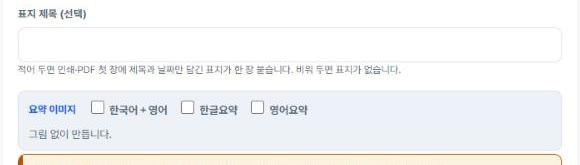
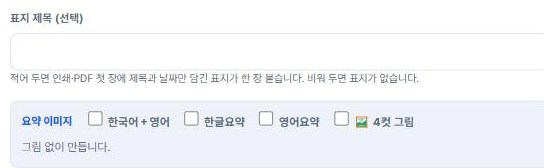
만드는 법·예시 자료를 최근 기능에 맞춰 고친다(사용자 — 업데이트가 안 된 곳 검토). 상세·요약분석에 요약 이미지 고르기 규칙(한글·영어요약만 함께, 한국어＋영어·4컷은 혼자)과 꾸미기의 인쇄 크기를, 혼합 탭에 출제 문항 수를, 객관식에 정답 검산과 '확인 필요' 표시를, 학생 관리에 여러 명에게 내기·단어 학습 필수·보충 학습 필수·오답테스트를, 단어장에 PDF 여러 개 파일별 저장·폴더 옮기기/이름 바꾸기를, 리딩노트에 2쪽 자동 맞춤·4컷 1세트·새로 만들기를 적었다. 4컷 칸이 빠져 있던 단계 사진(howto-step-

diff --git a/public/app.js b/public/app.js
@@ -3966,9 +3966,10 @@ syncTabGroups(null);
 const START_TOUR = [
   { tab: "analyze", title: "📖 지문 상세분석", text: "끊어읽기·어법/어휘 색 구분·문장별 해설과 출제 포인트", img: "howto-analyze-1.jpg" },
   { tab: "brief", title: "📑 지문 요약분석", text: "같은 색 구분에 한 줄 의역 — 학생이 들고 다니는 얇은 정리", img: "howto-brief-1.png" },
-  { tab: "mcq", title: "📝 객관식 문제", text: "수능형 23 · 중학교 내신 13유형, 정답·해설 포함", img: "howto-mcq-1.jpg" },
+  { tab: "mcq", title: "📝 객관식 문제", text: "수능형 25 · 중학교 내신 13유형, 정답·해설 포함", img: "howto-mcq-1.jpg" },
   { tab: "saq", title: "✍ 주관식 문제", text: "서술형 배열·조건 영작 등 18유형", img: "howto-saq-1.jpg" },
   { tab: "workbook", title: "📚 워크북", text: "좌지문 우해석부터 영작까지 14단계 학습지", img: "howto-workbook-1.jpg" },
+  { tab: "decode", title: "📘 리딩노트", text: "지문 하나로 A4 두 쪽 — 해석·핵심 정리·어휘·끊어 읽기", img: "howto-decode-1.jpg" },
   { tab: "exam", title: "🧾 동형 모의고사", text: "기출 시험지의 유형 구성 그대로, 내 시험 범위로", img: "howto-exam-1.jpg" },
   { tab: "trend", title: "📊 시험지 분석 리포트", text: "기출 PDF를 올리면 출제경향 보고서와 총평까지", img: "howto-trend-1.jpg" },
 ];
@@ -14147,10 +14148,10 @@ const HOWTO = {
     lead: "지문을 의미 단위로 끊어 색·뜻을 달고, 문장마다 해설과 출제 포인트를 붙인 가장 두꺼운 자료입니다.",
     steps: [
       "<b>지문 칸</b>에 영어 지문을 붙여 넣습니다. 여러 개면 <b>[＋ 지문 추가]</b>.",
-      "(선택) <b>표지 제목</b>·<b>요약 이미지</b>를 고릅니다. 요약 이미지는 <b>추가 요청</b> 칸에 원하는 강조·색을 적을 수 있고, 비우면 기본 방식으로 만듭니다. <b>🖼 4컷 그림</b>(일러스트·웹툰)을 고르면 지문 흐름을 네 장면으로 그린 그림이 컷마다 설명 한 줄과 함께 들어갑니다. 목표 어법을 적으면 그 구조가 주황색으로 표시됩니다.",
+      "(선택) <b>표지 제목</b>·<b>요약 이미지</b>를 고릅니다. 요약 이미지는 <b>추가 요청</b> 칸에 원하는 강조·색을 적을 수 있고, 비우면 기본 방식으로 만듭니다. <b>🖼 4컷 그림</b>(일러스트·웹툰)을 고르면 지문 흐름을 네 장면으로 그린 그림이 컷마다 설명 한 줄과 함께 들어갑니다. 함께 고를 수 있는 것은 한글요약·영어요약뿐이고, 한국어＋영어와 4컷 그림은 하나만 고릅니다. 목표 어법을 적으면 그 구조가 주황색으로 표시됩니다.",
       "<b>[분석하기]</b>를 누릅니다. 요약 이미지가 안 만들어졌거나 나중에 필요하면 분석은 그대로 두고 <b>[🖼 요약 이미지만 만들기]</b>로 없는 그림만 따로 만듭니다.",
       "<b>[✏ 직접 수정]</b>으로 글자를, <b>[📄 쪽 구성]</b>으로 인쇄될 쪽 경계를 고칩니다.",
-      "<b>[🖨 인쇄 / PDF 변환]</b> · <b>[💾 사이트 저장]</b>으로 마무리합니다. 사이트에 저장하면 핵심 어휘도 <b>'제목_단어'</b> 단어장으로 함께 저장됩니다. <b>🎨 분석본 꾸미기</b>로 테마 색·글씨체를 바꿀 수 있습니다(요금 없음).",
+      "<b>[🖨 인쇄 / PDF 변환]</b> · <b>[💾 사이트 저장]</b>으로 마무리합니다. 사이트에 저장하면 핵심 어휘도 <b>'제목_단어'</b> 단어장으로 함께 저장됩니다. <b>🎨 분석본 꾸미기</b>로 테마 색·글씨체를 바꾸고, <b>인쇄 크기</b>(조금 작게·작게)를 줄여 인쇄 쪽 수를 아낄 수 있습니다(요금 없음).",
     ],
     tip: "요약 이미지는 사이트에 저장해야 다음에 불러올 때 남습니다. 학생용 모의고사 문제지를 <b>[📄 PDF에서 가져오기]</b>로 올리면 빈칸·순서·문장 삽입 문항을 AI가 풀어 채울지 묻습니다(채우면 지문당 포인트). 그 창에 정답표를 붙여 넣거나 올리면 정답표의 답대로 채웁니다. 순서·삽입·무관한 문장·빈칸 <b>문제를 캡처해 넣으면</b> 답을 정하는 창이 떠, 답을 고르거나 정답표를 넣거나 AI에게 풀게 하면(문제당 포인트) 원래 지문으로 바꿔 넣습니다. 문제 모양 그대로 쓰려면 <b>[📷 캡처본 그대로 두기]</b>를 누르세요." + HOWTO_PAUSE_TIP,
     shots: {
@@ -14165,9 +14166,9 @@ const HOWTO = {
     lead: "상세분석과 같은 색·뜻에 해석을 한 줄 의역으로 담은, 학생이 들고 다니기 좋은 얇은 자료입니다.",
     steps: [
       "<b>지문 칸</b>에 영어 지문을 붙여 넣습니다.",
-      "(선택) <b>표지 제목</b>·<b>요약 이미지</b>를 고릅니다. 요약 이미지는 <b>추가 요청</b> 칸에 원하는 강조·색을 적을 수 있고, 비우면 기본 방식으로 만듭니다. <b>🖼 4컷 그림</b>(일러스트·웹툰)을 고르면 지문 흐름을 네 장면으로 그린 그림이 컷마다 설명 한 줄과 함께 들어갑니다.",
+      "(선택) <b>표지 제목</b>·<b>요약 이미지</b>를 고릅니다. 요약 이미지는 <b>추가 요청</b> 칸에 원하는 강조·색을 적을 수 있고, 비우면 기본 방식으로 만듭니다. <b>🖼 4컷 그림</b>(일러스트·웹툰)을 고르면 지문 흐름을 네 장면으로 그린 그림이 컷마다 설명 한 줄과 함께 들어갑니다. 함께 고를 수 있는 것은 한글요약·영어요약뿐이고, 한국어＋영어와 4컷 그림은 하나만 고릅니다.",
       "<b>[요약분석 만들기]</b>를 누릅니다.",
-      "<b>[📄 쪽 구성]</b>으로 쪽 경계를 보고, <b>[🖨 인쇄 / PDF 변환]</b> · <b>[💾 사이트 저장]</b>으로 마무리합니다. <b>🎨 분석본 꾸미기</b>로 테마 색·글씨체를 바꿀 수 있습니다(요금 없음 — 짧은 문장 묶기까지 맞추려면 글꼴을 먼저 고르고 만드세요).",
+      "<b>[📄 쪽 구성]</b>으로 쪽 경계를 보고, <b>[🖨 인쇄 / PDF 변환]</b> · <b>[💾 사이트 저장]</b>으로 마무리합니다. <b>🎨 분석본 꾸미기</b>로 테마 색·글씨체와 <b>인쇄 크기</b>(조금 작게·작게)를 바꿀 수 있습니다(요금 없음 — 짧은 문장 묶기까지 맞추려면 글꼴을 먼저 고르고 만드세요).",
     ],
     tip: "상세분석과 달리 오른쪽 해설 칸과 핵심 어휘표가 없습니다." + HOWTO_PAUSE_TIP,
     shots: {
@@ -14189,7 +14190,7 @@ const HOWTO = {
       "<b>[문제 만들기]</b>를 누릅니다.",
       "<b>[🖨 인쇄 / PDF 변환]</b> · <b>[🔑 답지만]</b> · <b>[💾 사이트 저장]</b>으로 마무리합니다. <b>[🔀 문제 섞기]</b>는 요금 없이 순서만 바꿉니다. <b>🎨 시험지 꾸미기</b>로 색·글자 크기·글꼴을 바꿀 수 있습니다(요금 없음).",
     ],
-    tip: "고난도는 정답을 다른 말로 바꾸고 오답에 지문 낱말을 넣은 함정을 섞어, 외운 것만으로는 못 풉니다. 승인된 선생님은 <b>[🏫 반에 시험 내기]</b>로 학생에게 온라인 시험을 낼 수 있습니다." + HOWTO_PAUSE_TIP,
+    tip: "고난도는 정답을 다른 말로 바꾸고 오답에 지문 낱말을 넣은 함정을 섞어, 외운 것만으로는 못 풉니다. 만든 문항은 AI가 정답을 가린 채 한 번 더 풀어 검산하고, 답이 갈리면 고치거나 <b>⚠ 확인 필요</b>를 붙입니다 — 이 표시가 있는 문항은 꼭 한 번 보세요. 승인된 선생님은 <b>[🏫 반에 시험 내기]</b>로 학생에게 온라인 시험을 낼 수 있습니다." + HOWTO_PAUSE_TIP,
     sampleHead: "객관식은 이렇게 나옵니다 — 한 지문으로 25가지 유형을 한 문항씩 만든 시험지 중 세 쪽입니다",
     // 2026-10-18 실서비스 화면(주제·빈칸·어법·내용일치 1문항씩)
     shots: {
@@ -14226,7 +14227,7 @@ const HOWTO = {
     lead: "객관식과 주관식 유형을 한 시험지에 섞어 만듭니다.",
     steps: [
       "<b>지문 칸</b>에 영어 지문을 붙여 넣습니다.",
-      "<b>객관식</b>과 <b>주관식</b> 칸에서 유형을 체크하고 문항 수를 정합니다.",
+      "<b>출제 문항 수</b>(객관식·주관식 따로)를 넣으면 학교급에 맞는 유형이 무작위로 채워집니다. <b>객관식</b>과 <b>주관식</b> 칸에서 유형을 직접 더하거나 빼도 됩니다.",
       "<b>학교급 · 난이도 · 출제 순서 · 지문 변형</b>을 고릅니다. 유형 순서대로면 객관식 → 주관식 순입니다.",
       "<b>[문제 만들기]</b>를 누르고, <b>[🖨 인쇄 / PDF 변환]</b> · <b>[💾 사이트 저장]</b>으로 마무리합니다. <b>🎨 시험지 꾸미기</b>로 색·글자 크기·글꼴을 바꿀 수 있습니다(요금 없음).",
     ],
@@ -14265,7 +14266,7 @@ const HOWTO = {
       "<b>형식</b>을 고릅니다 — 단어장, 또는 시험지(뜻 쓰기 · 영어 쓰기 · 섞어서).",
       "<b>[단어장 만들기]</b>를 누르고 <b>[🖨 인쇄 / PDF 변환]</b>으로 뽑습니다. <b>🎨 시험지 꾸미기</b>로 색·단어/뜻 글자 크기·글꼴을 바꿀 수 있습니다(요금 없음).",
     ],
-    tip: "[🤖 지문에서 뽑기]는 지문 분석의 핵심 어휘와 같은 방식으로, AI가 그 지문에서 꼭 알아야 할 단어·표현을 고릅니다. 2022 개정 교육과정 단어 목록(중학교·공통 / 고등 선택)에 있는 단어를 위주로 하고, 초등 단어는 넣지 않으며 목록에 없는 전문 용어·숙어는 일부만 넣습니다. 뜻은 AI가 쓰므로 편집 표에서 확인하세요. 사진·PDF로 읽은 단어는 편집 표에서 확인한 뒤 [이 단어장에 추가]를 눌러야 들어갑니다. 승인된 선생님은 <b>[🏫 반에 시험 내기]</b>로 온라인 단어시험을 낼 수 있습니다(요금 없음). 저장한 단어장을 여러 개 체크하면 한 시험으로 합치거나 단어장마다 따로 낼 수 있습니다. [💾 사이트 저장]을 누르면 저장본을 넣을 <b>단어장</b>(저장한 단어장 묶음)을 목록에서 고르거나 새로 만들 수 있습니다. 단어장 책 PDF를 단원별로 나눠 읽었으면 '📚 쓸 단어장 고르기'의 <b>[💾 고른 단원 따로 저장]</b>으로 단원마다 저장해 두세요 — 다음엔 PDF를 다시 올리지 않아도 됩니다.",
+    tip: "[🤖 지문에서 뽑기]는 지문 분석의 핵심 어휘와 같은 방식으로, AI가 그 지문에서 꼭 알아야 할 단어·표현을 고릅니다. 2022 개정 교육과정 단어 목록(중학교·공통 / 고등 선택)에 있는 단어를 위주로 하고, 초등 단어는 넣지 않으며 목록에 없는 전문 용어·숙어는 일부만 넣습니다. 뜻은 AI가 쓰므로 편집 표에서 확인하세요. 사진·PDF로 읽은 단어는 편집 표에서 확인한 뒤 [이 단어장에 추가]를 눌러야 들어갑니다(PDF를 여러 개 올리면 파일마다 단어장이 따로 저장됩니다). 저장함의 단어장 줄 <b>[📁 폴더]</b>로 다른 단어장(폴더)으로 옮기고, 폴더 머리의 <b>[✏ 폴더 이름]</b>으로 이름을 바꿉니다. 승인된 선생님은 <b>[🏫 반에 시험 내기]</b>로 온라인 단어시험을 낼 수 있습니다(요금 없음). 저장한 단어장을 여러 개 체크하면 한 시험으로 합치거나 단어장마다 따로 낼 수 있습니다. [💾 사이트 저장]을 누르면 저장본을 넣을 <b>단어장</b>(저장한 단어장 묶음)을 목록에서 고르거나 새로 만들 수 있습니다. 단어장 책 PDF를 단원별로 나눠 읽었으면 '📚 쓸 단어장 고르기'의 <b>[💾 고른 단원 따로 저장]</b>으로 단원마다 저장해 두세요 — 다음엔 PDF를 다시 올리지 않아도 됩니다.",
     shots: {
       0: [{ img: "howto-step-vocab-1.jpg", cap: "직접 입력 · 사진 · PDF로 단어 넣기" }],
       1: [{ img: "howto-step-vocab-2.jpg", cap: "형식 고르기" }],
@@ -14296,11 +14297,11 @@ const HOWTO = {
     steps: [
       "<b>[+ 새 반 만들기]</b>로 반을 만듭니다.",
       "학생의 <b>이름과 아이디</b>를 정해 등록합니다. 비밀번호는 <b>1234</b>로 시작합니다.",
-      "단어장·문제·문법 문제·워크북 탭에서 만든 뒤 <b>[🏫 반에 시험 내기]</b>를 누릅니다. 저장해 둔 자료는 이 탭의 <b>[＋ 시험 출제]</b>에서 골라 바로 낼 수 있습니다. 반 전체에도, 한 명에게도 낼 수 있습니다.",
+      "단어장·문제·문법 문제·워크북 탭에서 만든 뒤 <b>[🏫 반에 시험 내기]</b>를 누릅니다. 저장해 둔 자료는 이 탭의 <b>[＋ 시험 출제]</b>에서 골라 바로 낼 수 있습니다. <b>낼 대상</b>은 반 전체, 또는 학생을 여러 명 체크해 고릅니다.",
       "<b>🔗 학생에게 알려 줄 주소</b> 칸의 주소를 <b>[복사]</b>해 학생에게 보냅니다. 학생은 아이디·비밀번호로 로그인해 풉니다.",
       "결과는 시험의 <b>[결과 보기]</b>, 학생 한 명은 <b>[성적표]</b>에서 봅니다.",
     ],
-    tip: "학생 표의 비밀번호 칸에 <b>⚠ 1234 그대로</b>가 보이는 학생에게는 처음 로그인하면 비밀번호를 바꾸라고 알려 주세요 — 안 바꾸면 아이디만 아는 친구도 들어올 수 있습니다. 합격 기준을 두면 못 미친 학생은 재시험을 봅니다. 비밀번호를 잊은 학생은 <b>[🔑 비번 초기화]</b>. 시험 삼아 넣을 때는 실제 학생 이름을 쓰지 마세요.",
+    tip: "학생 표의 비밀번호 칸에 <b>⚠ 1234 그대로</b>가 보이는 학생에게는 처음 로그인하면 비밀번호를 바꾸라고 알려 주세요 — 안 바꾸면 아이디만 아는 친구도 들어올 수 있습니다. 합격 기준을 두면 못 미친 학생은 재시험을 봅니다. 단어시험은 학생이 단어 학습(뜻을 모두 눌러 보기)을 마쳐야 열립니다. 문제 시험에서 <b>틀린 문제 보충 학습 필수로 하기</b>를 켜면 학생은 틀린 문제를 다시 읽고 새 문제를 풀어야 끝납니다(새 문제 값은 선생님 포인트에서 나갑니다). 학생 <b>[성적표]</b>의 <b>[지난 주]·[이번 주]</b>에서 틀린 단어로 바로 오답테스트를 내고, 아래 <b>[🎯 학생마다 오답테스트 내기]</b>로 반 전체에 한 번에 낼 수 있습니다. 비밀번호를 잊은 학생은 <b>[🔑 비번 초기화]</b>. 시험 삼아 넣을 때는 실제 학생 이름을 쓰지 마세요.",
   },
 
   leveltest: {

diff --git a/public/analyze.html b/public/analyze.html
@@ -137,11 +137,17 @@
       다음 대목이 답하는 질문이 붙습니다), 되풀이되는 핵심 낱말 모음이 나옵니다.</li>
     <li><b>핵심 어휘 &amp; 표현표</b> 단어·품사·뜻·유의어·반의어를 표로 뽑습니다. 이 표는 그대로 단어장으로도 넘어갑니다.</li>
     <li><b>배경지식 &amp; 독해 도우미</b> 지문에 나오는 분야·개념 2~4개를 지문 밖 지식으로 풀어 주는 배경지식 칸, 글의 핵심 구조를 일상 장면에 빗댄 <b>쉽게 말하면</b>, 읽으면서 붙잡을 질문 2~3개와 답이 나옵니다. 낱말은 읽는데 글이 안 읽히는 학생에게 좋습니다. 배경지식이 필요 없는 지문(이야기·편지 등)은 이 칸이 비어 나오고, AI가 확실하지 않은 수치·인명은 쓰지 않도록 되어 있지만 개념 설명은 한 번 훑어보고 쓰세요.</li>
-    <li><b>요약 이미지</b> 지문 내용을 그림 한 장으로 요약합니다. 한국어＋영어·한글요약·영어요약 중에서 고르고, 여럿을 골라 한 번에 만들 수도 있습니다.</li>
+    <li><b>요약 이미지</b> 지문 내용을 그림 한 장으로 요약합니다. 핵심 문구를 담은 인포그래픽(한국어＋영어·한글요약·영어요약)과,
+      지문 흐름을 네 장면으로 그린 <b>4컷 그림</b>(웹툰·일러스트) 중에서 고릅니다. 4컷 그림은 그림 속에 글자가 없고 컷마다 설명 한 줄이 붙어
+      오탈자 걱정이 없습니다. 한글요약과 영어요약은 둘 다 골라 한 번에 만들 수 있습니다.</li>
   </ul>
   <figure>
     <img src="/sample-analyze-1.jpg" alt="영어 지문 분석 요약 이미지 예시 — 한글요약" loading="lazy" width="1376" height="768">
     <figcaption class="muted small">실제로 만들어진 요약 이미지입니다. 그림은 지문 내용에 맞춰 매번 새로 그려집니다.</figcaption>
+  </figure>
+  <figure>
+    <img src="/howto-analyze-6.jpg" alt="영어 지문 분석 요약 이미지 예시 — 웹툰 4컷" loading="lazy" width="900" height="373">
+    <figcaption class="muted small">같은 지문으로 그린 4컷 그림(웹툰)입니다. 컷 아래 설명은 직접 고칠 수 있습니다.</figcaption>
   </figure>
 </section>
 

diff --git a/public/decode.js b/public/decode.js
@@ -572,7 +572,7 @@ if (typeof HOWTO !== "undefined") {
         "그림은 지문마다 위의 <b>🖼 4컷 그림 넣기 / 🔄 그림 다시 그리기 / 그림 빼기</b>로 더하거나 바꿉니다.",
       "<b>🖨 인쇄 / PDF 변환</b>으로 뽑거나, <b>💾 사이트 저장</b>으로 남겨 둡니다.",
     ],
-    tip: "1쪽: 본문과 해석 · 핵심 정리(제목·주제·글의 목적·흐름 세 줄) · 주요 어휘(외웠는지 표시하는 네모) / 2쪽: 문장마다 '/'로 끊은 영어 줄 아래 우리말 줄. 🎨 꾸미기로 색·글자 크기·글꼴을 바꿀 수 있습니다.",
+    tip: "1쪽: 본문과 해석 · 핵심 정리(제목·주제·글의 목적·흐름 세 줄) · 주요 어휘(외웠는지 표시하는 네모) / 2쪽: 문장마다 '/'로 끊은 영어 줄 아래 우리말 줄(4컷 그림은 2쪽 아래). 지문이 길어 넘치면 글씨를 조금 줄이거나 어휘·그림 자리를 옮겨 <b>알아서 두 쪽에 맞춥니다</b>. 4컷 그림 값은 지문마다 1세트입니다. 🎨 꾸미기로 색·글자 크기·글꼴을 바꿀 수 있습니다(요금 없음). 다른 지문으로 넘어갈 때는 지문 칸의 <b>[🆕 새로 만들기]</b>를 누르세요.",
   };
 }
 

diff --git a/public/brief.html b/public/brief.html
@@ -77,7 +77,7 @@
     <li><b>도입 · 전개 · 결론 표시</b>각 문장이 글에서 어떤 역할인지, 주제문이 어디인지 표시합니다.</li>
     <li><b>주제 &amp; 흐름 요약</b>한 줄 요약, 단계별 흐름표, 주제를 가리키는 되풀이 낱말을 정리합니다. 주제·제목·순서·요약문 문제를 대비하기 좋습니다.</li>
     <li><b>배경지식 · 쉽게 말하면</b>주제 &amp; 흐름 요약 뒤에 지문과 관련된 개념 한두 개와, 글의 구조를 일상 장면에 빗댄 한 줄이 붙습니다. 필요 없는 지문(이야기·편지 등)에서는 빠집니다.</li>
-    <li><b>(선택) 요약 이미지</b>지문 내용을 그림 한 장으로 정리한 요약 이미지를 맨 뒤에 붙일 수 있습니다.</li>
+    <li><b>(선택) 요약 이미지</b>지문 내용을 그림 한 장으로 정리한 인포그래픽, 또는 지문 흐름을 네 장면으로 그린 4컷 그림(웹툰·일러스트)을 맨 뒤에 붙일 수 있습니다.</li>
   </ul>
 </section>
 

diff --git a/public/index.html b/public/index.html
@@ -171,7 +171,7 @@
         </a>
         <a class="gate-tour-card" href="/quiz.html">
           <span class="gate-tour-shot"><img src="/howto-mcq-1.jpg?v=%%ASSET_V%%" alt="수능형 객관식 변형문제 예시" loading="lazy"></span>
-          <b>📝 객관식 변형문제</b><small>수능형 23 · 중학교 내신 13유형, 정답·해설 포함</small>
+          <b>📝 객관식 변형문제</b><small>수능형 25 · 중학교 내신 13유형, 정답·해설 포함</small>
         </a>
         <a class="gate-tour-card" href="/quiz.html">
           <span class="gate-tour-shot"><img src="/howto-saq-1.jpg?v=%%ASSET_V%%" alt="서술형 조건 영작 문제 예시" loading="lazy"></span>

diff --git a/CLAUDE.md b/CLAUDE.md
@@ -196,7 +196,7 @@ order=순서 배열·자동 / wbwrite=영작 연습·다르면 확인 대기 / p
 | PDF에서 지문 꺼내기 | `read_pdf_pages`(글자층+좌표 읽기), `_pdf_columns`(단 나누기 — 왼쪽 조각에 경계 안쪽에서 끝나는 줄이 3개 이상 있어야 단으로 본다. 모의고사 오른쪽 단의 문항 머리글이 본문보다 왼쪽으로 튀어나와 머리글만 한 단으로 갈리던 버그로 2026-10 고1·2·3 학력평가에서 번호가 하나씩 밀리고 지문이 빠졌다 — 23번 본문에 24번이 붙고 진짜 24번이 사라지거나 도표+인물 소개가 한 지문으로 붙었다, 2026-10-23), `split_pdf_passages`(문항형/문단형 판정), `_pdf_clean_passage`(번호·보기·정답교정 정리), `_pdf_unspace_letters`(양쪽 정렬로 글자마다 빈칸이 든 줄 'p r o c e s s .  B a s e d'을 되붙인다 — 낱말 사이가 빈칸 둘 이상일 때만), `_pdf_drop_running_heads`(쪽마다 같은 머리말을 지운다 — 책처럼 홀짝 쪽 머리말이 다르면 홀수·짝수 쪽을 따로 세되 한글이나 숫자뿐인 줄만, 2026-10-21). 여기까지는 Gemini를 부르지 않습니다 — 규칙이 실패했을 때만 `call_gemini_pdf_split`이 '경계 줄 번호'만 물어봅니다 |
 | 모의고사 문제지 → 원래 지문(2026-10-20) | 학생용 문제지는 빈칸·순서·삽입이 풀리지 않은 채라 위 규칙 길로는 그 지문이 빠진다(고1 10월 모의고사 28지문 중 13개만 나왔다). `/api/mockrestore` → `call_gemini_mock_restore`가 PDF를 **통째로**(inlineData) Pro에 보내 `MOCK_RESTORE_RANGES`(18~24·25~30·31~35·36~40·41~45)로 나눠 **동시에** 풀게 하고, 되살린 지문(`MOCK_RESTORE_SCHEMA` — no·type·text·answer·change)을 번호 순으로 돌려준다. 정답표 없이 AI가 푼다(사용자 결정) — 화면이 고른 답을 모두 보여 선생님이 맞춰 보게 한다. 글자를 서버가 뽑아 정답만 끼우는 길은 2단 시험지의 줄 순서가 섞여(29번 첫 줄이 30번 발문 사이에 낀다) 버렸다. 옮겨 적기가 대부분이라 temperature 0.15(RECITATION — `call_gemini_exam_ocr`과 같다). 값은 되살린 지문 1개당 `PRICE_MOCK_RESTORE_KRW`(30P — 2026-10-20 사용자 결정: 처음 꺼내기는 무료이고 이것은 다른 유료 기능으로 이어지는 입구라 원가(지문당 약 18원)만 넘기면 된다), 잔액은 쪽 수×4(4~28지문)로 미리 본다. 실측: 8쪽 문제지 25지문 50초, 입력 5.2천×5·출력+생각 약 2.1만 토큰(원가 약 430원). 화면은 따로 단추 없이 **[📄 PDF에서 가져오기](`runPdfImport`)가 묻는다** — 29번을 넘는 번호가 보이면 풀어야 할 문항(`MOCK_SOLVE_NOS` 29~39·41~45 + 규칙이 못 꺼낸 번호)을 모아 선택 창(`askMockFill` — [🧩 AI로 자동 채우기](지문당 값) / [원문 그대로 두기](무료))을 띄우고(2026-10-20 사용자 — 무료로 열면 원가가 커서), AI면 `mockRestoreInto`가 그 번호만 `nos`로 보내 문항 번호를 이름으로 달아 `appendJobs`한다. **모의고사면 규칙으로 바로 꺼낸 지문도 번호를 이름으로 달고, AI로 되살린 지문과 합쳐 `mockJobsInOrder`로 문항 번호 순서대로 넣는다**(2026-10-23 사용자 — 규칙 쪽만 이름이 비어 '지문 1'로 나오고 순서도 18~22 → 40 → 23…로 섞였다). [원문 그대로 두기]도 같은 순서·이름이고, 빼 둔 지문(25~28)은 넣을 때 이름만 달고 맨 뒤에 붙는다. 교과서 PDF는 여전히 이름을 비운다(`fillText`). 서버는 `parse_mock_nos`·`_mock_nos_of`로 그 번호 밖의 지문을 버려, 규칙으로 무료로 꺼낸 지문에 값을 또 받지 않는다. **정답표(선택, 2026-10-21 사용자 — AI가 푼 답은 틀릴 수 있다)**: 선택 창에 정답을 글로 붙여 넣거나(`keyText`) PDF·사진(`keyFile`, base64 4MB `MOCK_KEY_FILE_MAX` — 화면에도 같은 이름)을 올리면 AI가 풀지 않고 그 답대로 되살린다. 글은 `parse_mock_answer_key`가 번호 → ①~⑤로 읽어(짝 꼴 '31 ②'·'31. 2', 가로 표 두 줄, 평가원 '번호 정답 배점' 표 — 줄을 넘어 짝짓지 않는다) 범위마다 그 번호만 보내고, 못 읽은 글은 그대로, 파일은 두 번째 파일로 보낸다. 번호를 읽은 정답표면 AI의 답에 그 번호(①~⑤)가 들어 있는지 견줘 `keyMismatch`로, 정답표에 없어 AI가 푼 지문은 `keyed:false`로 돌려 화면이 빨간 줄로 짚는다. 값은 같다. 실측(2025 9월 고3 모평): 정답표 PDF로 31·32·36·38 모두 정답, 31번을 일부러 틀리게 준 글 정답표도 그대로 따랐다 |
 | 사진 속 '문제' → 원래 지문(2026-10-21 사용자) | 순서·삽입·무관한 문장·빈칸 문제를 캡처해 넣으면 예전엔 (A)(B)(C)가 인쇄된 차례로 붙거나 주어진 문장이 맨 앞에 붙은 채 들어갔다. `/api/ocr`(Flash)이 `problem`(종류)·`qno`를 함께 받고, 문제면 `lines` 안에 `[주어진]`·`(A)`·`( ① )`·`①`·`_____`·`[보기]` 표시를 남기게 해 서버 `problem_from_lines`가 짜임(given·parts·body·choices)과 표시를 지운 예전 글을 함께 만든다(`normalize_ocr_problem`이 되살릴 수 있는 짜임만 남긴다 — 글을 두 번 옮기게 했더니 Flash가 조각을 비우고 출력이 두 배라 잘림·재현 차단이 늘었다). 화면 `runOcr`은 꺼낸 그대로 칸에 넣은 뒤(`fillText`가 채운 칸을 돌려준다) `askProblemFill` 창을 띄운다 — ① 답 번호 직접 ② 정답표(붙여 넣기는 화면 `parseKeyText`, 안 되면·파일은 `/api/answerkey` → `read_answer_key`: 글·글자 PDF는 규칙, 사진·스캔은 Flash, 0원) ③ `/api/passagesolve`(`solve_passage_problems` — 문제마다 따로 Pro로 풀고 Flash로 한 번 더 풀어 다르면 '답이 갈림' 표시, 값 `PRICE_PASSAGE_SOLVE_KRW` 문제당 30P, 답을 받아 낸 수만큼). 고른 답대로 `assembleProblem`이 조각을 잇는다 — 글을 다시 옮겨 적지 않는다. 칸에는 먼저 `problemAsShown`(캡처본 그대로 — (A)(B)(C)·( ① )·①~⑤·빈칸·보기를 살린 글)을 넣으므로 창의 [📷 캡처본 그대로 두기]와 답을 안 정한 문제는 그 글로 남는다(2026-10-21 사용자 — 예전 '꺼낸 그대로'는 표시만 지우고 인쇄된 차례로 붙여 원래 지문도 문제도 아닌 글이었다). 실측: 모음집 문항 사진 34장 중 31장이 짜임까지 읽혔고(3장은 재현 차단 → 조각 읽기로 넘어가 짜임 없이 예전처럼 들어간다, 온도를 올려도 안 풀렸다), 공식 정답으로 되살린 31지문이 검증된 지문과 낱말까지 같았다. AI 풀이 Pro 30~31/31, Flash 30/31 |
-| 리딩노트(2026-11-02 사용자 — 시중 구문독해 교재 같은 복습 자료, 탭 이름 **리딩노트**는 사용자가 골랐다) | 지문 하나 → A4 두 쪽: 1쪽 본문과 해석(원문 아래 전체 해석) / 핵심 정리(영어·우리말 제목 띠, 주제·글의 목적 두 칸, 흐름 세 줄 화살표 칸) / 주요 어휘(12~16개, 세 줄, 외웠는지 표시하는 네모), 2쪽 끊어 읽기 해석(문장마다 영어 줄 아래 우리말 줄 — 같은 자리에서 '/'로). **모양은 참고 교재와 일부러 다르게 짰다**(2026-11-03 사용자: 베낀 티가 나면 안 된다 — 분홍 둥근 틀·알약 소제목·원문/해석 좌우·한 줄 해석 좌우 칸을 쓰지 않는다. 소제목은 `01 PASSAGE` 같은 번호 + 영문 머리글 + 가는 줄). 되돌리지 말 것. 서버 `/api/decode` → `call_gemini_decode`(Flash 고정, `DECODE_SCHEMA`/`DECODE_SYSTEM_PROMPT`, 지시문이 짧아 캐시 안 씀) → `_finish_decode`(태그를 걷어 **글자만** 돌려준다 — 화면이 `esc()`로 넣는다). 문장이 모자라거나 영어가 60% 아래면(`decode_english_incomplete`) 한 번 더 묻는다(값은 한 번). 값 `PRICE_DECODE_KRW` 지문당 150P는 **원가 실측 전 임시값**(로컬 실측 150단어 지문 1개: 입력 1.3천·출력+생각 2.9천 토큰, 약 16원, 21초 — Render 로그 `[usage] decode`로 맞출 것). 화면은 **`public/decode.js` 한 파일**(grammar.js처럼 app.js 뒤에 로드, `_asset_version` 목록에 있다), 사이드바에서 '📖 지문 분석' 묶음 바로 아래 따로 선 탭(처음엔 그 묶음의 하위 탭이었는데 사용자가 밖으로 빼라고 했다). 공용 지문칸을 그대로 쓰고 지문마다 차례로 부른다(`runGate`로 멈추기). 왼쪽 원문은 AI 조각이 아니라 **넣은 지문 그대로**다. [✏ 직접 수정]은 `.dc-ed[data-f]` 칸만 열고 `dcHarvest`가 고친 글을 data로 되돌려 저장·인쇄에 쓴다. **4컷 그림**(2026-11-03 사용자 — 그림 느낌 둘: 일러스트·웹툰을 선생님이 고른다, 서버 `DECODE_PIC_STYLES` ↔ 화면 `DC_PIC_STYLES`·`index.html` 라디오 **같은 열쇠**. 수채화·연필 스케치·흑백 만화·3D 캐릭터는 그려 보고 뺐다). **같은 4컷을 상세분석·요약분석의 '요약 이미지'에서도 고른다**(2026-11-03 사용자): 종류 칸에 `comic`(🖼 4컷 그림 + 느낌 `<prefix>ComicStyle`)을 더해 `makeSummaryImage`가 `/api/decodepic`을 부르고, `addInfographic`/`buildBriefHtml`이 `comicCutsHtml`로 네 칸을 그린다(그림 본체 `img.infographic`은 숨겨 두어 저장·불러오기 길을 그대로 쓴다). 값은 종류마다 `imgLangPrice`(4컷 `decodePic`·인포그래픽 `infographic`). 컷 설명은 저장본 `images[].caps`(서버 `clean_saved_images_meta`가 남긴다). 고르는 조합은 `enforceImgLangRule`이 정한다 — **한글요약·영어요약만 함께 고를 수 있고, 한국어＋영어와 4컷은 혼자만**(`IMG_LANG_SOLO`, 2026-11-03 사용자 — 마지막에 누른 것이 이긴다). 상세분석에서 4컷만 있으면 `syncInfoPair`가 새 쪽 강제를 푼다: `/api/decodepic` → `call_gemini_decode_pic`(Flash가 장면·컷 설명을 정하고 `MODEL_IMAGE`가 정사각형 한 장에 2×2 네 컷 — 한 번만 그려 한 장 값, `PRICE_DECODE_PIC_KRW` 300P, 원가 약 90원). **그림 속에는 글자를 넣지 않고** 컷 설명은 화면이 그림 아래 글자로 붙인다(`data.pic.captions`, 직접 수정 가능 — 그림이 그린 한글은 오탈자가 잘 나서). 화면이 한 장을 칸마다 206%로 놓아 잘라 쓴다(컷 사이 흰 줄을 감춘다). 만들 때 체크(`dcPicChk`)하거나 지문마다 [🖼 4컷 그림 넣기/🔄 다시 그리기/그림 빼기], 목록의 `dcPicBtn`. 그림은 **늘 가로 한 줄**이다(3쪽에 2×2로 크게 넣었더니 쪽 낭비가 심하다고 사용자가 되돌렸다 — 다시 2×2로 바꾸지 말 것). `dcFit`이 글 모양 차례마다 그림 자리를 `DC_PIC_SPOTS`(2쪽 아래 → 80% → 1쪽 빈자리 → 1쪽 80% → 65%) 차례로 해 보고, 그래도 안 되면 그때만 한 줄 그대로 3쪽(`.dc-page3`)에 둔다. 소제목 번호는 `dcRenumber`가 쪽 차례대로 다시 매긴다. 그림 본체는 저장 때 `/api/saved-image`(key `p{차례}`)로 따로 올린다(`afterSave`/`afterLoad` — 요약분석과 같은 길). 그림 결과는 `_hold_bin`의 image 그릇에 든다. 🎨 꾸미기는 다른 탭과 같은 `createSheetStyle`(글자 크기 묶음 `SHEET_FS.reading` — 영어·우리말 해석·정리·어휘, CSS `.fs-e`/`.fs-k`/`.fs-v`)이고 저장본 `sheetStyle`에 담긴다. 저장 tab `"decode"`. 인쇄 CSS는 style.css 끝 '리딩노트'. **인쇄 2쪽 맞추기**(`dcFit`, 2026-11-03 — 단어 수가 아니라 해석·목적 글 길이에 따라 1쪽이 넘쳐 152단어 지문도 어휘만 다음 쪽으로 밀렸다): 화면에서 `.dc-measure`(인쇄 규칙과 **같은 값을 한 벌 더** 적어 둔 것 — 한쪽만 고치면 잰 높이와 실제 인쇄가 어긋난다)로 쪽마다 높이를 재서 `PAGE_H_MM`−3mm에 들 때까지 ① 그대로 ② 그 지문만 글씨 94%(`data-fit`, zoom) ③ 주요 어휘를 2쪽 위로 ④ ③+94% ⑤ ③+88%를 차례로 해 보고, 바꾼 것은 지문 위 `.dc-fitnote`(화면 전용)로 알린다. 꾸미기·직접 수정·탭 열기 때 다시 잰다. 지문 6개(132~224단어)가 모두 2쪽인 것을 헤드리스 크롬 PDF로 확인했다(학원 마크 띠가 붙은 실제 인쇄는 아직 못 봤다). 색은 사이트 색(`--accent`) — 참고 교재의 분홍 둥근 틀을 따르지 않는다(문법 마법사처럼 남의 자료 티가 나지 않게). 결과물 예시는 `howto-decode-1·2.jpg`(다른 탭과 같은 Desirable Difficulty 지문으로 실제로 만든 리딩노트 + 4컷 웹툰을 헤드리스 크롬으로 인쇄한 쪽 — 모양을 바꾸면 다시 찍을 것, decode.js의 `HOWTO_SAMPLE.decode`). 아직 안 한 것: 소개 쪽·첫 화면 둘러보기 카드 |
+| 리딩노트(2026-11-02 사용자 — 시중 구문독해 교재 같은 복습 자료, 탭 이름 **리딩노트**는 사용자가 골랐다) | 지문 하나 → A4 두 쪽: 1쪽 본문과 해석(원문 아래 전체 해석) / 핵심 정리(영어·우리말 제목 띠, 주제·글의 목적 두 칸, 흐름 세 줄 화살표 칸) / 주요 어휘(12~16개, 세 줄, 외웠는지 표시하는 네모), 2쪽 끊어 읽기 해석(문장마다 영어 줄 아래 우리말 줄 — 같은 자리에서 '/'로). **모양은 참고 교재와 일부러 다르게 짰다**(2026-11-03 사용자: 베낀 티가 나면 안 된다 — 분홍 둥근 틀·알약 소제목·원문/해석 좌우·한 줄 해석 좌우 칸을 쓰지 않는다. 소제목은 `01 PASSAGE` 같은 번호 + 영문 머리글 + 가는 줄). 되돌리지 말 것. 서버 `/api/decode` → `call_gemini_decode`(Flash 고정, `DECODE_SCHEMA`/`DECODE_SYSTEM_PROMPT`, 지시문이 짧아 캐시 안 씀) → `_finish_decode`(태그를 걷어 **글자만** 돌려준다 — 화면이 `esc()`로 넣는다). 문장이 모자라거나 영어가 60% 아래면(`decode_english_incomplete`) 한 번 더 묻는다(값은 한 번). 값 `PRICE_DECODE_KRW` 지문당 150P는 **원가 실측 전 임시값**(로컬 실측 150단어 지문 1개: 입력 1.3천·출력+생각 2.9천 토큰, 약 16원, 21초 — Render 로그 `[usage] decode`로 맞출 것). 화면은 **`public/decode.js` 한 파일**(grammar.js처럼 app.js 뒤에 로드, `_asset_version` 목록에 있다), 사이드바에서 '📖 지문 분석' 묶음 바로 아래 따로 선 탭(처음엔 그 묶음의 하위 탭이었는데 사용자가 밖으로 빼라고 했다). 공용 지문칸을 그대로 쓰고 지문마다 차례로 부른다(`runGate`로 멈추기). 왼쪽 원문은 AI 조각이 아니라 **넣은 지문 그대로**다. [✏ 직접 수정]은 `.dc-ed[data-f]` 칸만 열고 `dcHarvest`가 고친 글을 data로 되돌려 저장·인쇄에 쓴다. **4컷 그림**(2026-11-03 사용자 — 그림 느낌 둘: 일러스트·웹툰을 선생님이 고른다, 서버 `DECODE_PIC_STYLES` ↔ 화면 `DC_PIC_STYLES`·`index.html` 라디오 **같은 열쇠**. 수채화·연필 스케치·흑백 만화·3D 캐릭터는 그려 보고 뺐다). **같은 4컷을 상세분석·요약분석의 '요약 이미지'에서도 고른다**(2026-11-03 사용자): 종류 칸에 `comic`(🖼 4컷 그림 + 느낌 `<prefix>ComicStyle`)을 더해 `makeSummaryImage`가 `/api/decodepic`을 부르고, `addInfographic`/`buildBriefHtml`이 `comicCutsHtml`로 네 칸을 그린다(그림 본체 `img.infographic`은 숨겨 두어 저장·불러오기 길을 그대로 쓴다). 값은 종류마다 `imgLangPrice`(4컷 `decodePic`·인포그래픽 `infographic`). 컷 설명은 저장본 `images[].caps`(서버 `clean_saved_images_meta`가 남긴다). 고르는 조합은 `enforceImgLangRule`이 정한다 — **한글요약·영어요약만 함께 고를 수 있고, 한국어＋영어와 4컷은 혼자만**(`IMG_LANG_SOLO`, 2026-11-03 사용자 — 마지막에 누른 것이 이긴다). 상세분석에서 4컷만 있으면 `syncInfoPair`가 새 쪽 강제를 푼다: `/api/decodepic` → `call_gemini_decode_pic`(Flash가 장면·컷 설명을 정하고 `MODEL_IMAGE`가 정사각형 한 장에 2×2 네 컷 — 한 번만 그려 한 장 값, `PRICE_DECODE_PIC_KRW` 300P, 원가 약 90원). **그림 속에는 글자를 넣지 않고** 컷 설명은 화면이 그림 아래 글자로 붙인다(`data.pic.captions`, 직접 수정 가능 — 그림이 그린 한글은 오탈자가 잘 나서). 화면이 한 장을 칸마다 206%로 놓아 잘라 쓴다(컷 사이 흰 줄을 감춘다). 만들 때 체크(`dcPicChk`)하거나 지문마다 [🖼 4컷 그림 넣기/🔄 다시 그리기/그림 빼기], 목록의 `dcPicBtn`. 그림은 **늘 가로 한 줄**이다(3쪽에 2×2로 크게 넣었더니 쪽 낭비가 심하다고 사용자가 되돌렸다 — 다시 2×2로 바꾸지 말 것). `dcFit`이 글 모양 차례마다 그림 자리를 `DC_PIC_SPOTS`(2쪽 아래 → 80% → 1쪽 빈자리 → 1쪽 80% → 65%) 차례로 해 보고, 그래도 안 되면 그때만 한 줄 그대로 3쪽(`.dc-page3`)에 둔다. 소제목 번호는 `dcRenumber`가 쪽 차례대로 다시 매긴다. 그림 본체는 저장 때 `/api/saved-image`(key `p{차례}`)로 따로 올린다(`afterSave`/`afterLoad` — 요약분석과 같은 길). 그림 결과는 `_hold_bin`의 image 그릇에 든다. 🎨 꾸미기는 다른 탭과 같은 `createSheetStyle`(글자 크기 묶음 `SHEET_FS.reading` — 영어·우리말 해석·정리·어휘, CSS `.fs-e`/`.fs-k`/`.fs-v`)이고 저장본 `sheetStyle`에 담긴다. 저장 tab `"decode"`. 인쇄 CSS는 style.css 끝 '리딩노트'. **인쇄 2쪽 맞추기**(`dcFit`, 2026-11-03 — 단어 수가 아니라 해석·목적 글 길이에 따라 1쪽이 넘쳐 152단어 지문도 어휘만 다음 쪽으로 밀렸다): 화면에서 `.dc-measure`(인쇄 규칙과 **같은 값을 한 벌 더** 적어 둔 것 — 한쪽만 고치면 잰 높이와 실제 인쇄가 어긋난다)로 쪽마다 높이를 재서 `PAGE_H_MM`−3mm에 들 때까지 ① 그대로 ② 그 지문만 글씨 94%(`data-fit`, zoom) ③ 주요 어휘를 2쪽 위로 ④ ③+94% ⑤ ③+88%를 차례로 해 보고, 바꾼 것은 지문 위 `.dc-fitnote`(화면 전용)로 알린다. 꾸미기·직접 수정·탭 열기 때 다시 잰다. 지문 6개(132~224단어)가 모두 2쪽인 것을 헤드리스 크롬 PDF로 확인했다(학원 마크 띠가 붙은 실제 인쇄는 아직 못 봤다). 색은 사이트 색(`--accent`) — 참고 교재의 분홍 둥근 틀을 따르지 않는다(문법 마법사처럼 남의 자료 티가 나지 않게). 결과물 예시는 `howto-decode-1·2.jpg`(다른 탭과 같은 Desirable Difficulty 지문으로 실제로 만든 리딩노트 + 4컷 웹툰을 헤드리스 크롬으로 인쇄한 쪽 — 모양을 바꾸면 다시 찍을 것, decode.js의 `HOWTO_SAMPLE.decode`). 로그인 뒤 기능 카드(`START_TOUR`)에는 들어 있다. 아직 안 한 것: 검색용 소개 쪽(그래서 로그인 전 첫 화면 카드·사이트맵에도 없다) |
 | 상세분석 저장 → 단어장도 함께(2026-11-02 사용자) | 상세분석을 [💾 사이트 저장]하면 `TAB_SAVE.analyze.afterSave`가 `saveAnalyzeVocab`을 불러 분석의 핵심 어휘(`analyzeVocabSets` — 지문마다 `data.vocab`)를 **'저장 제목_단어'** 단어장 저장본(tab `vocab`)으로도 저장한다. 단어장 저장본 중 같은 이름이 있으면 덮어쓴다(중복 방지 — 2026-08-10 자동 저장을 기각한 까닭). 자동 저장이 아니라 사용자가 저장할 때만이고, 단어가 없는 분석은 단어장을 만들지 않는다. 단어장 저장이 실패해도 분석본은 저장된 채 알리기만 한다. `doSaveDialog`가 `afterSave`에 저장 제목을 넷째 인자로 넘긴다. 저장창 문구는 `saveLead`. 요약분석은 핵심 어휘 표가 없어 해당 없다 |
 | 단어장 — 지문에서 단어 뽑기(2026-11-02 사용자) | `/api/vocabextract` → `parse_vocab_extract` → `call_gemini_vocab_extract`(Flash 고정, 지문 하나당 한 번, 값 `PRICE_VOCAB_EXTRACT_KRW` 기본 30P는 **원가 실측 전 임시값** — Render 로그 `[usage] vocabextract`로 맞출 것). **지문 분석의 `vocab`(핵심 어휘 & 표현)과 같은 취지**로 AI가 그 지문에서 꼭 알아야 할 단어를 고르되, **`curriculum_vocab_2022.csv` 목록(중학교·공통 / 고등 선택)에 있는 단어 위주**다 — `_vocab_extract_candidates`가 지문 낱말을 `_curriculum_rank`(접사를 안 떼는 엄격한 짐작)로 목록과 맞춰 후보로 보여 주고, AI는 후보 위주로 고르며 목록 밖 단어·숙어는 개수의 `VOCAB_EXTRACT_OFF_DIV`(1/3, 올림 — 1/4로는 광합성 지문의 chlorophyll·stomata가 빠졌다)까지만 허용한다(서버가 다시 센다). 초등 단어·고유명사(문장 가운데 대문자)·이미 뽑은 낱말은 뺀다. **학교급 선택은 없다**(사용자 결정 — 중학교/고등학교로 나누던 것을 뺐다). 개수(기본 20, 최대 60)·숙어 포함은 요청으로 받는다 — 품사는 화면에서 고르지 않는다(사용자, `pos`를 안 실으면 서버가 명사·동사·형용사·부사를 모두 허용). 단어장 탭에서는 공용 지문칸의 목표 어법 칸(`targetGrammarRow`)을 감춘다(사용자). 지문은 **다른 탭과 같은 공용 지문칸(`passageMgr`)**에서 읽는다 — 단어장 탭은 평소 지문칸을 숨기지만 뽑기 칸을 열면(`vocabWantsPassage` ↔ `syncTabChrome`, 문법 마법사의 `grammarWantsPassage`와 같은 방식) 뜬다(사용자 — 처음엔 뽑기 칸 안에 따로 글상자를 두었다). 지문이 여럿이면 화면(`vocabExtractRunBtn`)이 한 번에 하나씩 부르고 앞에서 뽑은 낱말을 `exclude`로 넘긴다. 결과는 지문이 하나면 편집 표(`vocabEditorAdd`, src `extract`)로, **여럿이면 지문별 단어장**(지문마다 세트 하나, 이름 = 지문 이름)으로 들어간다. **지문별 저장**(2026-11-02 사용자): 쓰는 단어장이 둘 이상이고 모두 지문에서 온 것(src `extract`·`analyze`)이면 단어장 탭 [💾 사이트 저장]이 `saveVocabPerPassage`로 지문마다 **'저장 제목_지문 이름'** 저장본을 하나씩 만든다(`vocabPerPassageSets` — 제목을 앞에 붙여야 '지문 1'·'18번' 같은 흔한 이름끼리 덮어쓰지 않는다, 같은 이름은 덮어쓴다) **모두 제목 이름의 단어장(폴더, `/api/saved/folder`) 하나에 넣는다** — 저장함에서 '📁 3월 모의고사 (N개)'를 펼치면 지문별 목록이 나오는 모양(사용자가 단어장 책 폴더 화면을 보여 주며 정했다). 저장창에서 다른 단어장을 고르면 그리로. 제목 기본값은 지문 이름의 큰 이름(`vocabBigName` — '3월 모의고사 · 18번'의 앞부분, 모두 같을 때만)이고 저장본 이름에서는 큰 이름을 뗀다(`vocabShortName`). 이 모드에서는 [덮어쓰기] 단추를 숨기고 `LOADED_SAVED.vocab`을 끊는다). 직접 입력·사진·PDF 단어장이 섞이면 예전처럼 하나로 저장한다. 뽑는 품질은 실제 지문으로 아직 못 쟀다 |
 | 단어장 — 사진·PDF에서 단어 목록 가져오기 | **번호 붙은 단어장 책**(예: 어휘끝 — 쪽마다 'Unit 01 …' 단원 하나, 단어 8.5pt·뜻 6pt가 서로 다른 칸)은 `parse_vocab_book_pdf`가 **쪽별로 나눠** `{title, page, items}`로 돌려준다(2026-10-15, 0원 — 글자 위치로 짝짓는다: `_book_page_items`가 5pt 4자리 번호를 닻으로 삼아 같은 칸에서 다음 닻 전까지의 글자를 그 단어의 뜻·품사로 본다, `_book_title`이 쪽 머리글을 'Unit 01 수능 고빈출 최중요 어휘'로 잇는다, 띄어쓰기는 공백 글자가 아니라 글자 간격으로 정한다 — 이 책은 공백·탭 글자가 겹쳐 있다). `/api/vocabpdf`가 `mode:"book"`+`sections`로 답하고, 화면(`runVocabPdf`)이 쪽마다 `src:"book"` 세트를 만든다 — 둘 이상이면 `off:true`(아무것도 안 고른 채)로 두고 `renderVocabSource`의 **[📚 쓸 단어장 고르기]**(`activeVocabSets`)로 단원을 체크해 쓴다. 거기 **[💾 고른 단원 따로 저장]**(`saveVocabSetsEach`, 2026-10-20)이 체크한 단원을 '책 이름 · 단원 이름' 저장본으로 하나씩 저장한다(같은 이름의 단어장 저장본은 덮어쓴다) — 통째 저장만 있어 단원 하나를 쓰려면 PDF를 다시 올려야 했다. 실측: 어휘끝 45단원·1,800단어가 번호 1~1800까지 빠짐·중복 없이 나온다. **'번호 | 영단어 | 번호 | 뜻 | 뜻' 표**(토익 단어 PDF — 쪽마다 25단어)는 같은 함수가 `_table_page_items`로 이어서 읽어 **쪽 하나를 'Day N' 하나**로 낸다(2026-10-28 사용자 — 85쪽·2,109단어 실측 모두 나옴). 글씨를 세 번씩 겹쳐 찍은 PDF라 겹친 글자를 먼저 걷어내고, 뜻 두 칸은 ' / '로 잇고 품사는 '명·형'으로 모은다. 쪽 수 상한은 `VOCAB_BOOK_MAX_PAGES`(300, 일반 `PDF_MAX_PAGES` 80과 별개). 올리기 한도는 base64 9MB 그대로라 15MB 원본은 화면이 거른다 — 글꼴을 줄여 저장하면(`fitz` `subset_fonts()`+`garbage=4`) 5.5MB. 다른 모양의 책은 이 길이 빈 목록을 돌려 아래 기존 규칙·AI 길로 간다. 사진 인식은 그대로(쪽 나누기 없음). 사진: `call_gemini_vocab_ocr`, 그 밖의 PDF: `parse_vocab_lines_rule`(규칙만으로 "단어 — 뜻" 줄을 골라냄 · 0원), `call_gemini_vocab_pdf`(규칙이 못 뽑을 때만, `read_pdf_pages`가 이미 뽑아 둔 글자를 다시 보냄) |
@@ -400,7 +400,7 @@ order=순서 배열·자동 / wbwrite=영작 연습·다르면 확인 대기 / p
 
 | 출처 | 옮겨 적은 곳 |
 |---|---|
-| `QUIZ_TYPE_LABELS` / `MCQ_ONLY_TYPES` | `public/quiz.html`의 유형 목록(객관식 23 · 중학교 내신 13 · 주관식 18) |
+| `QUIZ_TYPE_LABELS` / `MCQ_ONLY_TYPES` | `public/quiz.html`의 유형 목록(객관식 25 · 중학교 내신 13 · 주관식 18) — `index.html` 첫 화면 카드와 `app.js`의 `START_TOUR`에도 같은 숫자가 있다 |
 | `WORKBOOK_STAGE_IDS` / `WB_STAGES` | `public/workbook.html`의 14단계(O/X 포함) — 다른 소개 쪽·`index.html`의 "14단계" 문구도 같이 |
 | `GRAMMAR_GRADES` / `GRAMMAR_MC_SHAPES` / `GRAMMAR_SA_SHAPES` | `public/grammar.html`의 레벨·객관식 11·주관식 12 |
 
